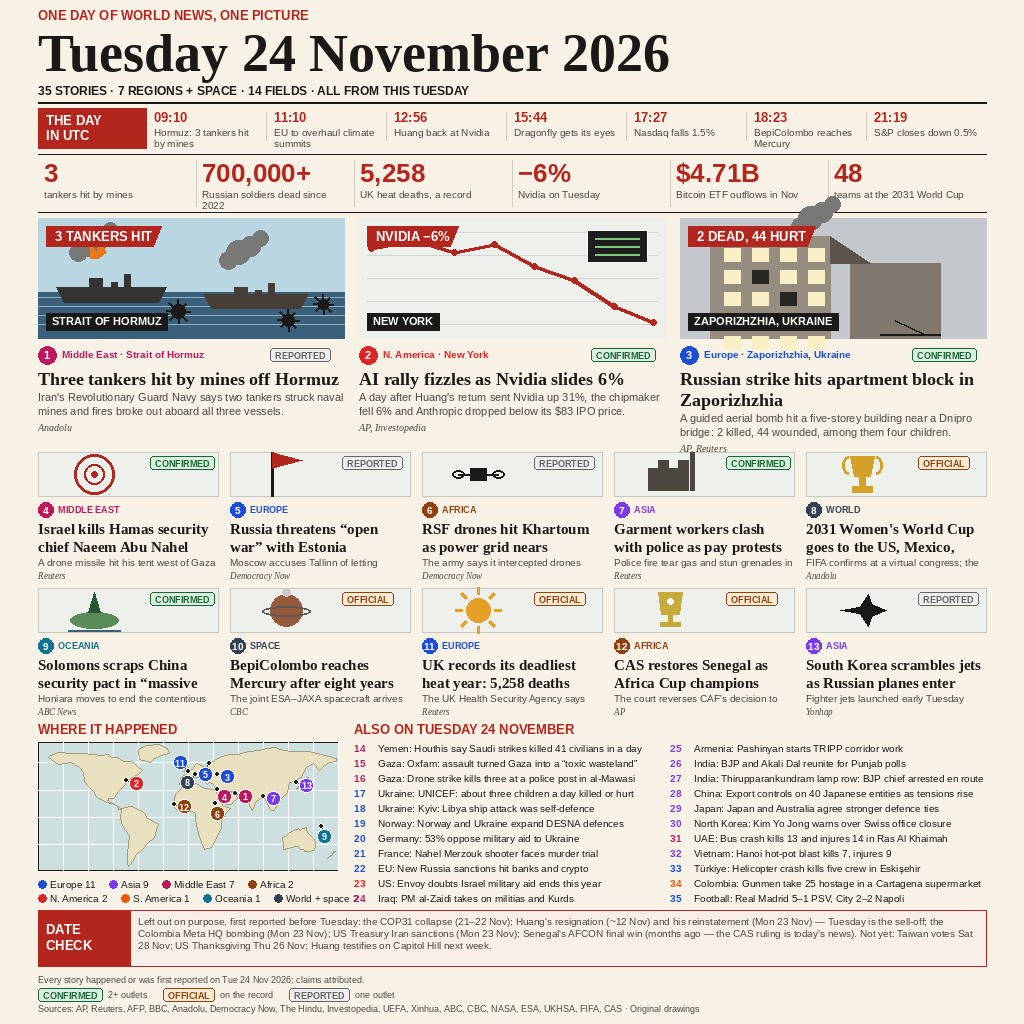
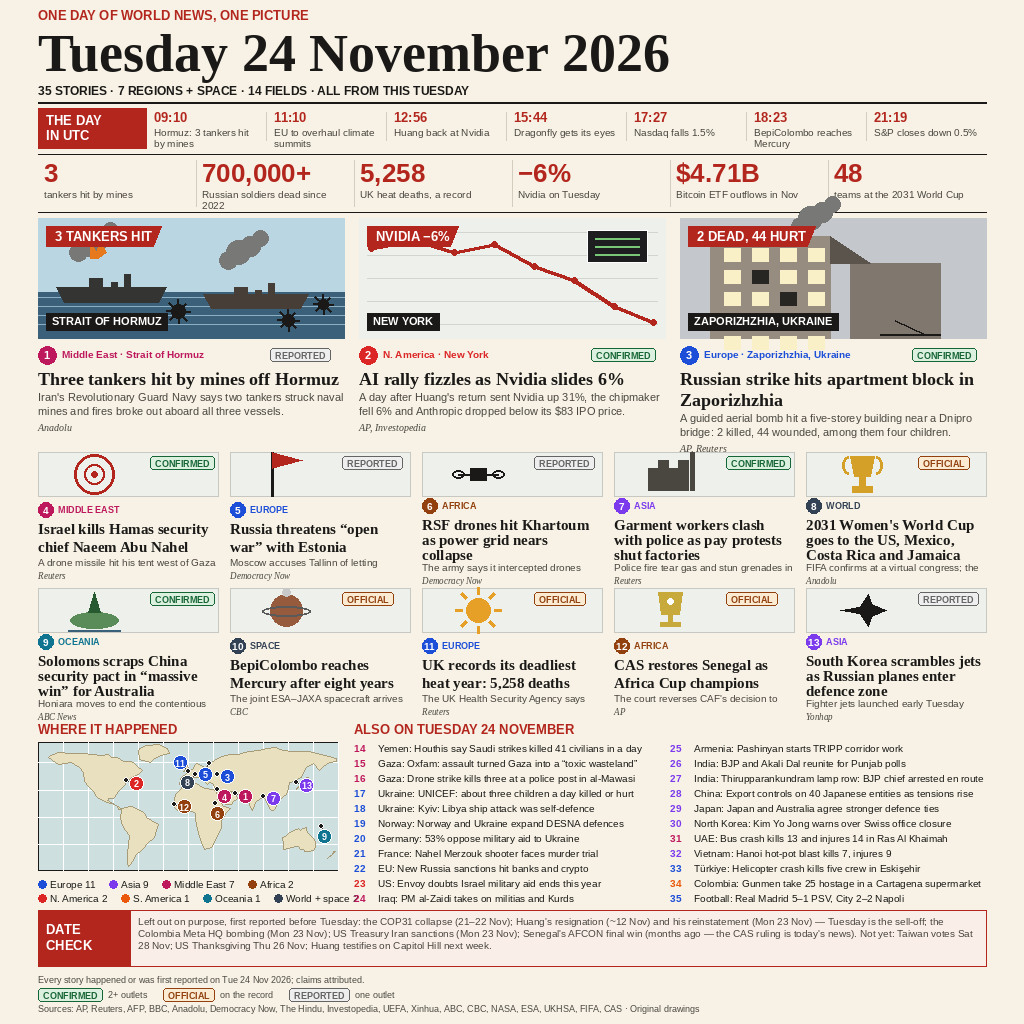
fix truncated small-card headlines 8 and 13

diff --git a/render.py b/render.py
@@ -575,7 +575,13 @@ def draw_small_card(draw, x, y, w, story):
                    outline=(200, 200, 195), width=1)
     draw_icon(draw, x - 34, y, w, icon_h, art)
     draw_badge(draw, x + w - 68, y + 4, badge)
-    ty = y + icon_h + 6
+    hlines = wrap(draw, headline, SERIF_B(15), w)
+    # Two headlines need a third line to read in full (measured: no
+    # shortening fits them in two lines at this size without losing facts).
+    # Tighten only those cards (2px gap, 15px leading) so the extra line
+    # still clears the next row: measured source bottom 584 vs row top 588.
+    three = len(hlines) > 2
+    ty = y + icon_h + (2 if three else 6)
     col = REGION_COLORS[region]
     draw.ellipse([x, ty, x + 15, ty + 15], fill=col)
     fnt_n = SANS_B(10)
@@ -584,9 +590,10 @@ def draw_small_card(draw, x, y, w, story):
               fill=(255, 255, 255))
     text(draw, (x + 20, ty + 2), region.upper(), SANS_B(9), col)
     ty += 18
-    for line in wrap(draw, headline, SERIF_B(15), w)[:2]:
+    hlh = 15 if three else 18
+    for line in hlines[:3]:
         text(draw, (x, ty), line, SERIF_B(15))
-        ty += 18
+        ty += hlh
     for line in wrap(draw, detail, SANS(10), w)[:1]:
         text(draw, (x, ty), line, SANS(10), INK_SOFT)
         ty += 13
